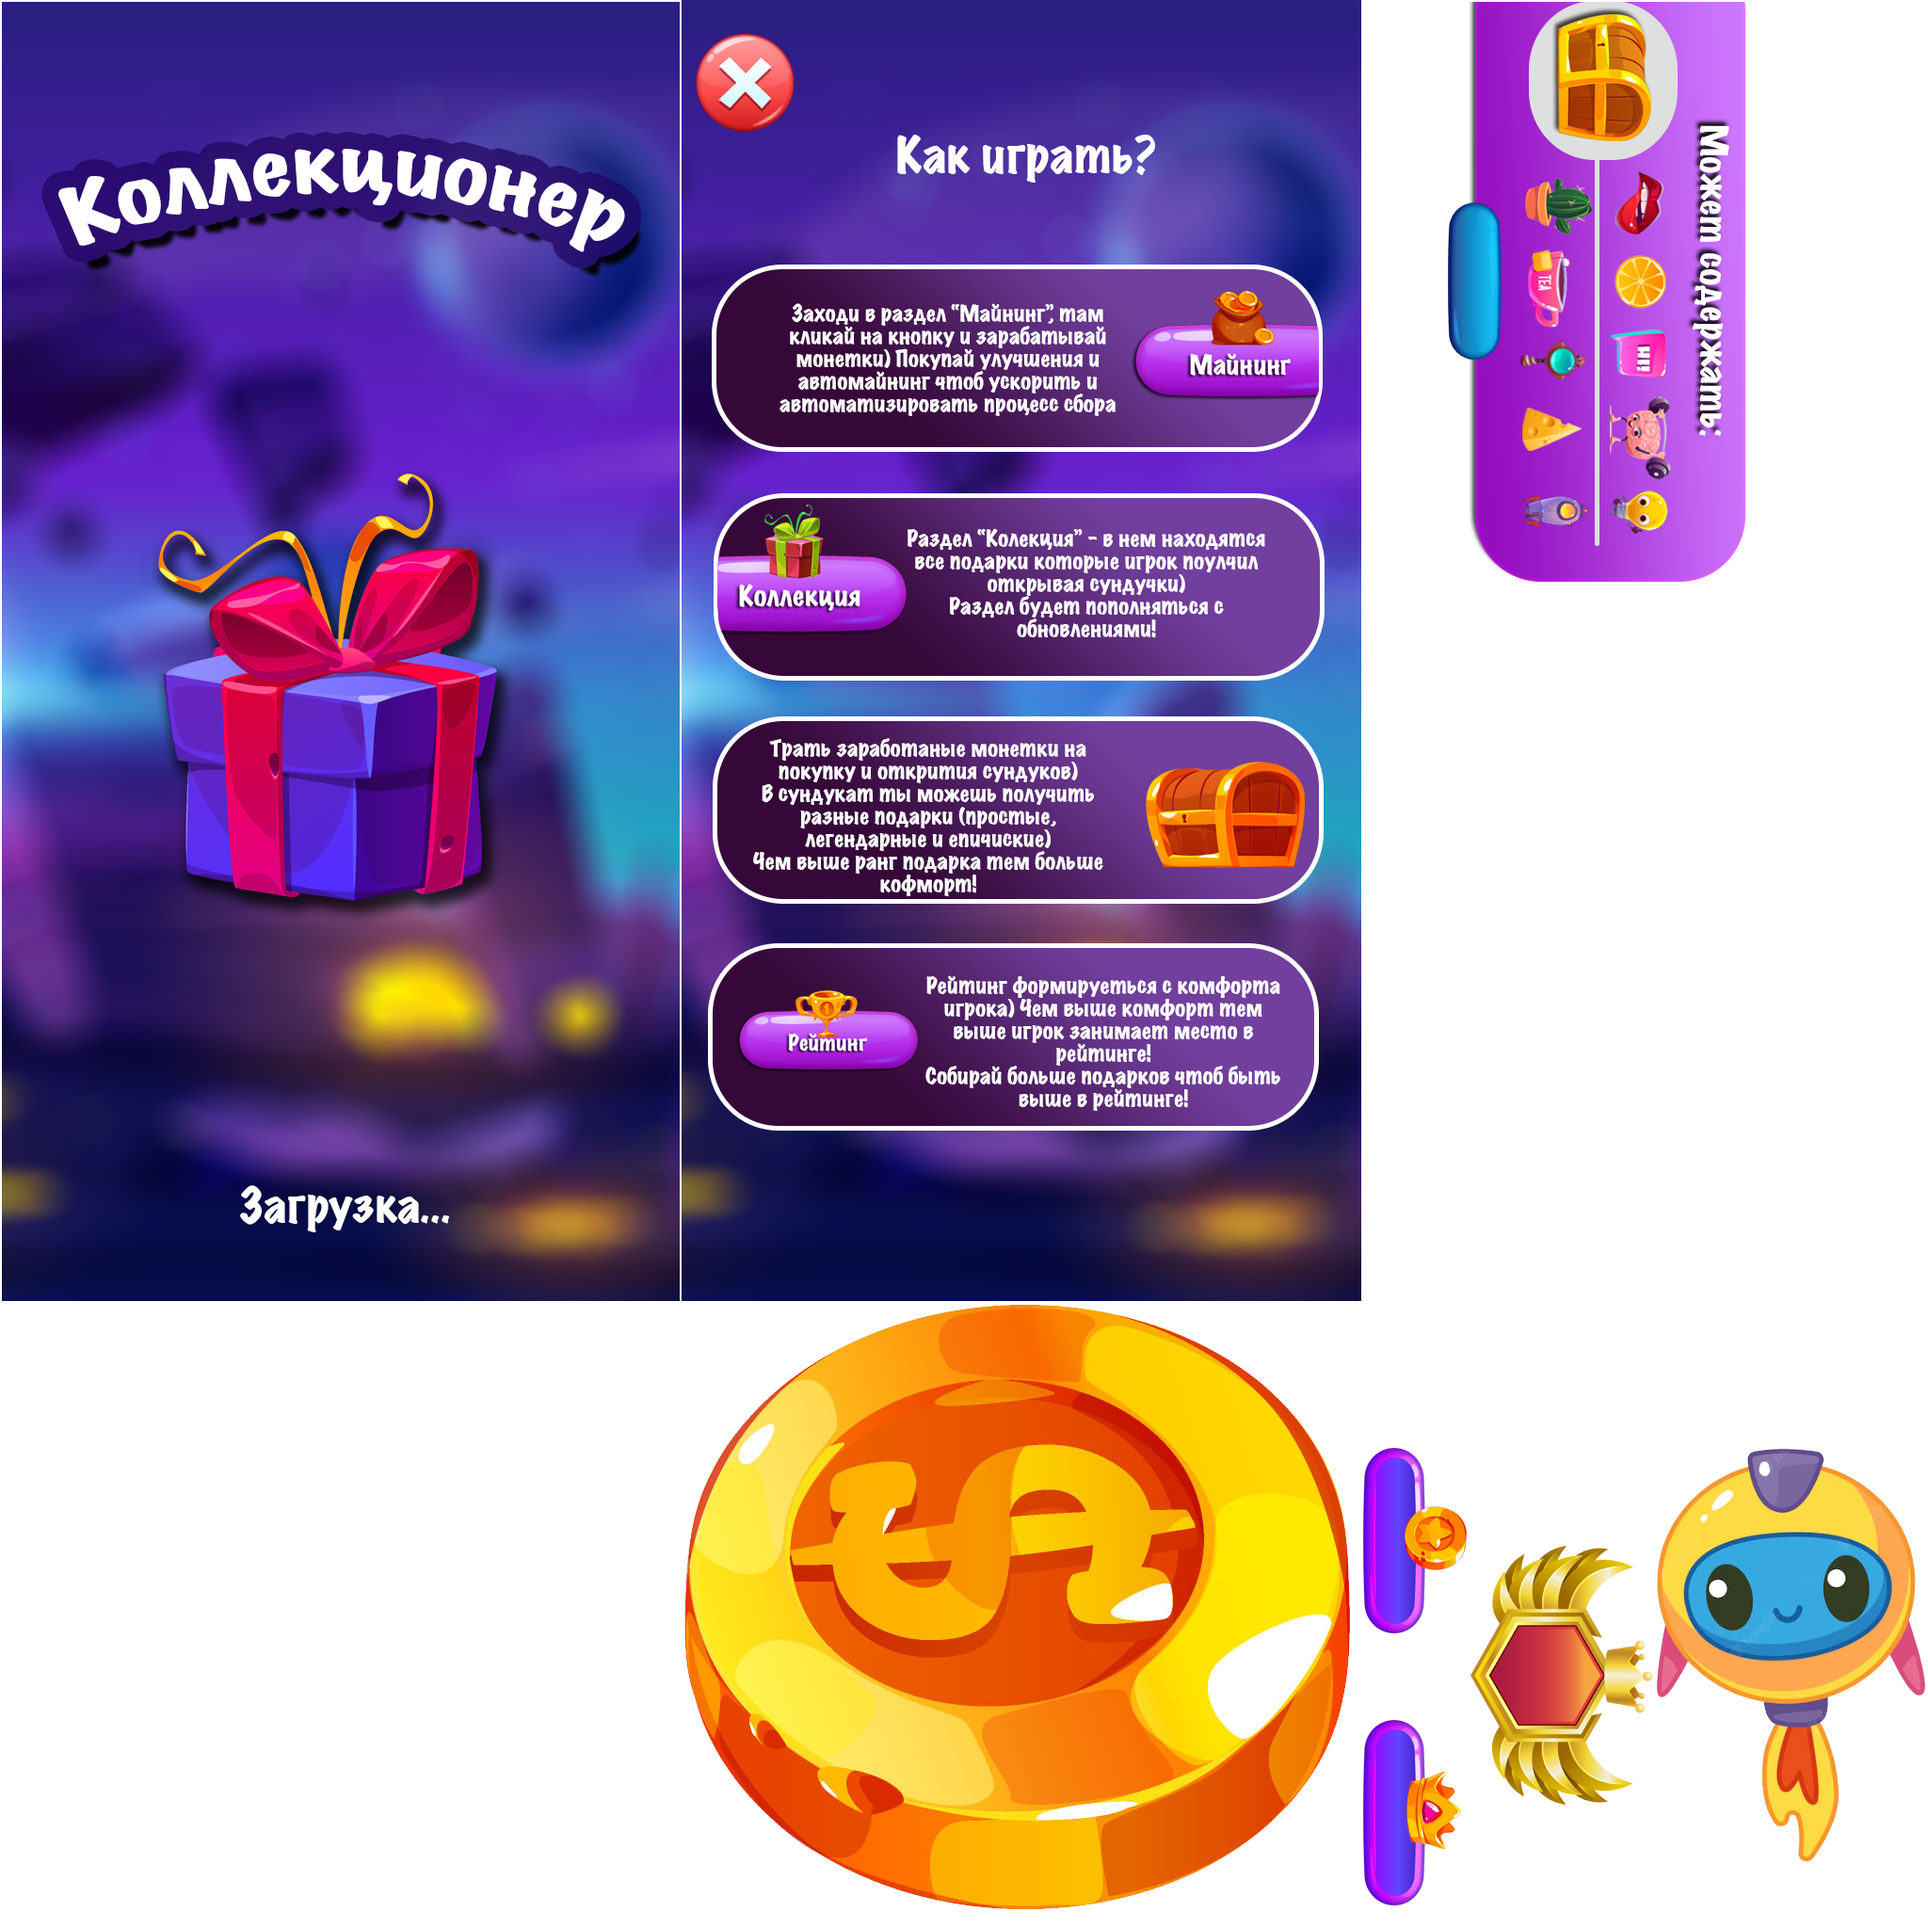
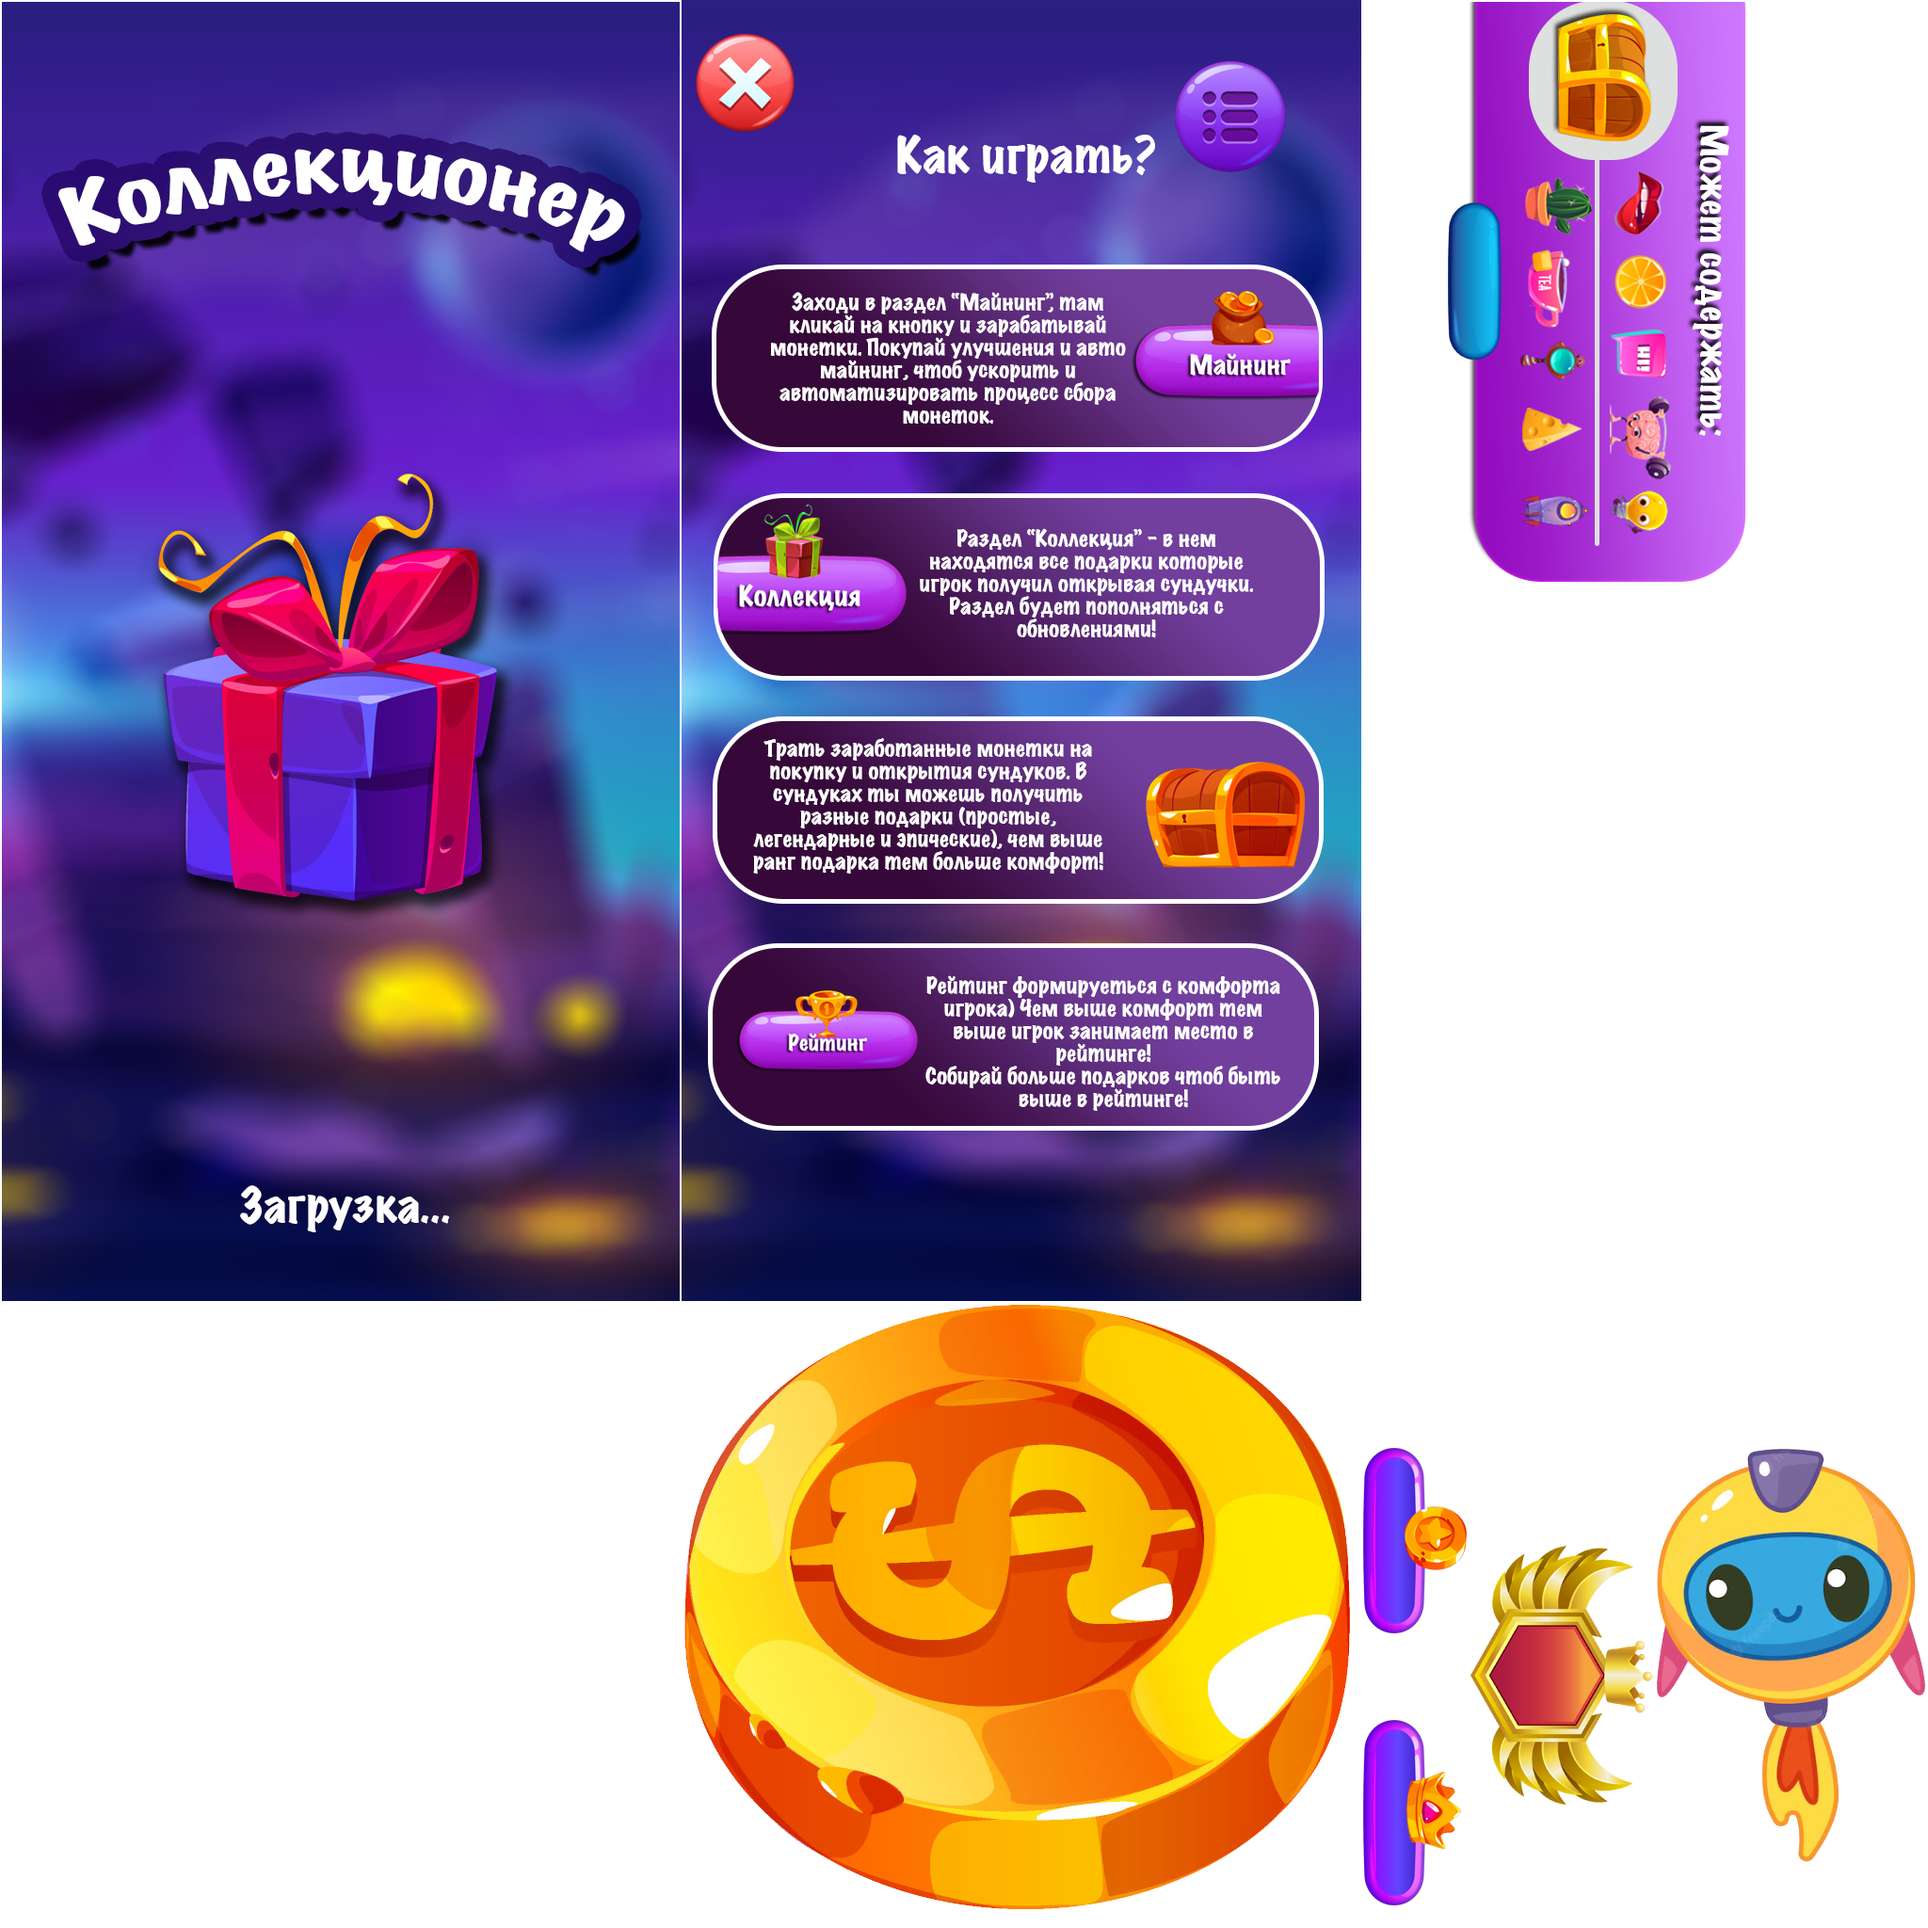
Add files via upload

diff --git a/scripts/c3runtime.js b/scripts/c3runtime.js
@@ -6971,6 +6971,7 @@ self.C3_GetObjectRefTable = function () {
 		C3.Plugins.VKBridge.Acts.ShowWall,
 		C3.Plugins.VKBridge.Acts.ShowInvite,
 		C3.Plugins.VKBridge.Cnds.AdsMobileSuccess,
+		C3.Plugins.Audio.Acts.SetVolume,
 		C3.Plugins.Text.Cnds.PickByUID,
 		C3.Plugins.Sprite.Acts.SetSize,
 		C3.Plugins.VKBridge.Acts.AppGetClient,
@@ -7046,6 +7047,7 @@ self.C3_JsPropNameTable = [
 	{notHaveMoney: 0},
 	{howPlay: 0},
 	{faq: 0},
+	{volumebtn: 0},
 	{money: 0},
 	{tabloHowPlay: 0},
 	{komfort: 0},
@@ -7055,6 +7057,7 @@ self.C3_JsPropNameTable = [
 	{costAvtomatik: 0},
 	{costGift1: 0},
 	{username: 0},
+	{volume: 0},
 	{gift11: 0}
 ];
 }
@@ -7173,6 +7176,7 @@ self.C3_ExpressionFuncs = [
 		() => 6,
 		() => 7,
 		() => 8,
+		() => 9,
 		() => 19,
 		() => 20,
 		() => 21,
@@ -7211,7 +7215,7 @@ self.C3_ExpressionFuncs = [
 			return () => and("-", n0.ExpObject(7));
 		},
 		() => 100,
-		() => "",
+		() => "volume",
 		() => "Saves",
 		() => "https://dca149.ru/save.php",
 		p => {
@@ -7267,7 +7271,6 @@ self.C3_ExpressionFuncs = [
 			const n0 = p._GetNode(0);
 			return () => add(n0.ExpObject(27), 1);
 		},
-		() => 9,
 		p => {
 			const n0 = p._GetNode(0);
 			return () => add(n0.ExpObject(28), 1);
@@ -7330,6 +7333,7 @@ self.C3_ExpressionFuncs = [
 			return () => add(n0.ExpObject(19), 1);
 		},
 		() => "score",
+		() => "",
 		() => "Коллекционер! Заходи в игру Коллекционер, зарабатывай монетки, покупай сундучки, получай рандомные подарки. Соревнуйся с друзьями у кого больше комфорта!",
 		() => "https://vk.com/app8131777",
 		p => {
@@ -7347,6 +7351,15 @@ self.C3_ExpressionFuncs = [
 		p => {
 			const n0 = p._GetNode(0);
 			return () => ((n0.ExpObject(8)) === (0) ? 1 : 0);
+		},
+		() => -100,
+		p => {
+			const n0 = p._GetNode(0);
+			return () => add(n0.ExpObject(9), 1);
+		},
+		p => {
+			const n0 = p._GetNode(0);
+			return () => ((n0.ExpObject(9)) === (0) ? 1 : 0);
 		},
 		() => "loadgame3",
 		p => {
